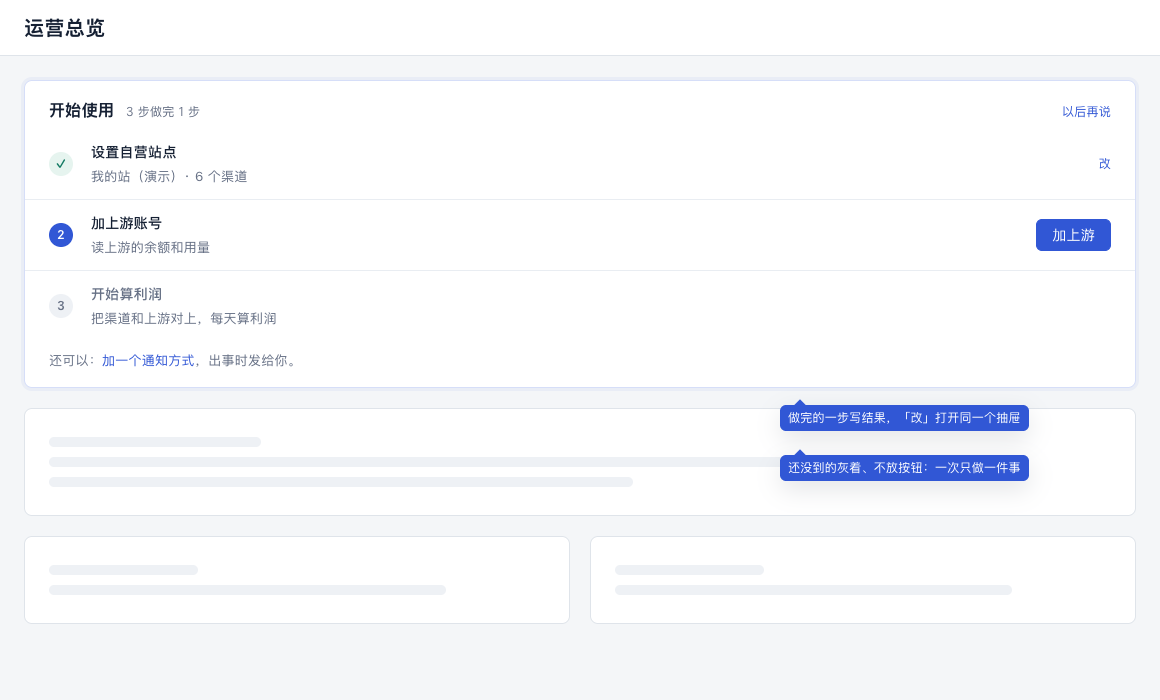
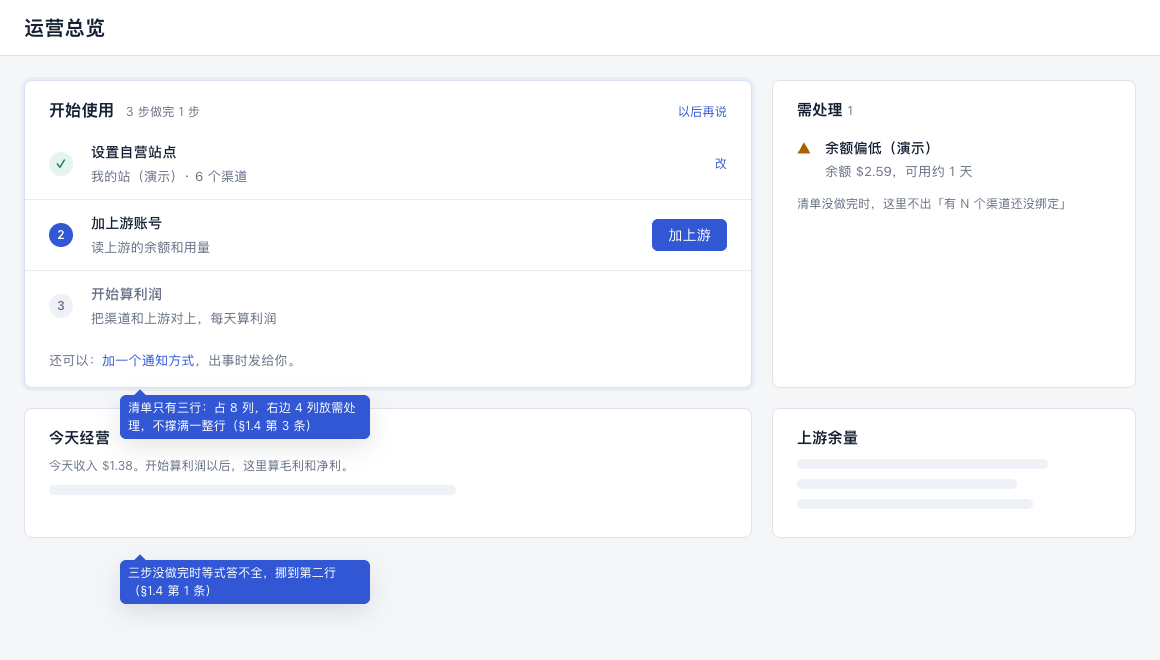
docs(ux): 第一次使用按 §1.4 重过——清单 8 列 + 需处理 4 列、没做完时等式挪到第二行、「更多设置」只写四个字；去重写明在 E 的 attention() 里做；五项加「版式」

diff --git a/design/ux/first-run.html b/design/ux/first-run.html
@@ -228,10 +228,10 @@ a { color: var(--cobalt); text-decoration: none; }
   </div>
   <div class="scrim"></div>
 </template>
-<p class="frame-label" style="width:1160px">F-A · 运营总览：没做完时顶上是「开始使用」，三步按顺序；现在这一步只有一个主按钮</p>
-<section class="frame" id="first-overview" style="width:1160px;height:700px">
+<p class="frame-label" style="width:1160px">F-A · 运营总览：没做完时第一行是清单 8 列 + 需处理 4 列；等式挪到第二行；现在这一步只有一个主按钮</p>
+<section class="frame" id="first-overview" style="width:1160px;height:660px">
   <div class="topbar"><h1>运营总览</h1><span class="spacer"></span></div>
-  <div class="ov">
+  <div class="ov" style="display:grid;grid-template-columns:2fr 1fr;gap:20px">
     <div class="start">
       <div class="start-head"><h2>开始使用</h2><span class="caption">3 步做完 1 步</span><span class="spacer"></span><a class="caption" style="color:var(--cobalt)">以后再说</a></div>
       <ol class="steps">
@@ -241,11 +241,14 @@ a { color: var(--cobalt); text-decoration: none; }
       </ol>
       <div class="start-foot">还可以：<a>加一个通知方式</a>，出事时发给你。</div>
     </div>
-    <div class="ghostpanel"><i style="width:20%"></i><i style="width:70%"></i><i style="width:55%"></i></div>
-    <div style="display:grid;grid-template-columns:1fr 1fr;gap:20px"><div class="ghostpanel"><i style="width:30%"></i><i style="width:80%"></i></div><div class="ghostpanel"><i style="width:30%"></i><i style="width:80%"></i></div></div>
+    <div class="ghostpanel"><b style="font-size:15px">需处理</b> <span class="caption">1</span>
+      <ul class="attention" style="margin-top:10px"><li style="background:none;border:0;padding:6px 0;grid-template-columns:16px 1fr"><svg class="sym"><use href="#warn"/></svg><div><strong>余额偏低（演示）</strong><p>余额 $2.59，可用约 1 天</p></div></li></ul>
+      <p class="caption" style="margin-top:8px">清单没做完时，这里不出「有 N 个渠道还没绑定」</p></div>
+    <div class="ghostpanel"><b style="font-size:15px">今天经营</b><p class="caption" style="margin:8px 0 0">今天收入 $1.38。开始算利润以后，这里算毛利和净利。</p><i style="width:60%"></i></div>
+    <div class="ghostpanel"><b style="font-size:15px">上游余量</b><i style="width:80%"></i><i style="width:70%"></i><i style="width:75%"></i></div>
   </div>
-  <div class="ann t" style="left:780px;top:405px">做完的一步写结果，「改」打开同一个抽屉</div>
-  <div class="ann t" style="left:780px;top:455px">还没到的灰着、不放按钮：一次只做一件事</div>
+  <div class="ann t" style="left:120px;top:395px">清单只有三行：占 8 列，右边 4 列放需处理，不撑满一整行（§1.4 第 3 条）</div>
+  <div class="ann t" style="left:120px;top:560px">三步没做完时等式答不全，挪到第二行（§1.4 第 1 条）</div>
 </section>
 <p class="frame-label" style="width:1160px">F-B · 设置自营站点：一个抽屉四处用；只填地址和令牌，离开输入框就自动读</p>
 <section class="frame" id="first-own" style="width:1160px;height:760px">
@@ -257,7 +260,7 @@ a { color: var(--cobalt); text-decoration: none; }
       <div class="field"><label>站点地址</label><div class="input filled">https://my-site.example.com</div></div>
       <div class="field"><label>超级管理员的访问令牌</label><div class="input filled">••••••••••••••••</div>
         <div class="kv-ok"><svg class="sym"><use href="#good"/></svg>能读到：站点「我的站」，120 个用户，6 个渠道</div></div>
-      <div class="more"><svg class="icon"><use href="#i-chev"/></svg>更多设置（名字、售价）</div>
+      <div class="more"><svg class="icon"><use href="#i-chev"/></svg>更多设置</div>
     </div>
     <div class="d-foot"><span class="sub"></span><span class="btn">关闭</span><span class="btn primary">保存</span></div>
   </aside>
@@ -275,7 +278,7 @@ a { color: var(--cobalt); text-decoration: none; }
       <div class="field"><label>站点地址</label><div class="input filled">https://api.example.com</div><div class="kv-info">是 New API 站点</div></div>
       <div class="field"><label>访问令牌</label><div class="input filled">••••••••••••••••</div>
         <div class="kv-ok"><svg class="sym"><use href="#good"/></svg>能读到：账号 演示·主力账号，余额 $158.78</div></div>
-      <div class="more"><svg class="icon"><use href="#i-chev"/></svg>更多设置（名字、汇率、余额提醒线、不再续费、算不算进利润、渠道里用的其他地址）</div>
+      <div class="more"><svg class="icon"><use href="#i-chev"/></svg>更多设置</div>
     </div>
     <div class="d-foot"><span class="sub"></span><span class="btn">关闭</span><span class="btn primary">加上游</span></div>
   </aside>

diff --git a/design/ux/first-run.md b/design/ux/first-run.md
@@ -19,7 +19,8 @@
 | 流程 | 现在：设自营站点 12 步换 3 次页，加上游 11 步换 2 次页，开始算利润约 11 步换 2 次页，中间没有一句话告诉下一步（ui-audit §8.2）。改成：改完密码落到运营总览的「开始使用」，三步按顺序就地做：设置自营站点 3 步 → 加上游 3 步 → 开始算利润 2 步，做完落到每日利润。不换页 |
 | 省掉了什么 | 自己想到「自营站点要当成上游来加」；选类型、填名字、选用途；看一长串用不到的可选项；每一步做完自己找下一步；「去设置」把人扔到上游列表 |
 | 还要用户做的 | 填两样只有用户有的东西：站点地址、令牌（自营站点一次、每个上游一次）；回答一次账号的问题（K）；确认一次「开始算利润」 |
-| 对照原则 | §1.2 第 1 条（类型、名字、用户 ID、渠道都自己认）、第 4 条（一条路从头走到尾，每步告诉下一步）、第 5 条（可选项收起）、第 3 条（演示上游归不归档只问一次、不预先选） |
+| 对照原则 | §1.2 第 1 条（类型、名字、用户 ID、渠道都自己认）、第 4 条（一条路从头走到尾，每步告诉下一步）、第 3 条（演示上游归不归档只问一次、不预先选）；§1.4 第 1 条（首屏只放清单这一件事和需处理）、第 3 条（清单 8 列 + 需处理 4 列，不撑满一整行）、第 4 条（「更多设置」收起，说明一行）、第 9 条（多字段的事用抽屉，提交吸底） |
+| 版式 | 运营总览首屏：清单 8 列 + 需处理 4 列；清单没做完时，等式挪到第二行。两个抽屉 560 宽，只露地址、令牌两栏，其余收进「更多设置」。手机：清单在最顶上，一步一行，按钮在步骤名下面 |
 
 ## 1. 整条路（样稿 F-A 到 F-D）
 
@@ -41,7 +42,10 @@
 
 ![](./screens/first-overview.png)
 
-**放在哪**：运营总览最顶上，利润等式上面。三步没做完时才有。
+**放在哪**：运营总览第一行的 8 列，右边 4 列是需处理（和逐页版式里运营总览的 8 + 4 同一个格子，样稿 F-A）。三步没做完时才有；没做完时利润等式挪到第二行。
+
+- 为什么不撑满一整行：清单只有三行，撑满 1160 宽，右边一大片空（§1.4 第 3 条）。
+- 为什么等式往下挪：三步没做完时，等式里毛利、净利算不出来（没设置自营站点时收入也没有），首屏给它也回答不了问题；这时只写一行已有的数和「开始算利润以后，这里算毛利和净利」（§1.4 第 1 条）。
 
 **长什么样**（用现有的 `panel`，不另起组件）：
 - 标题「开始使用」，旁边「3 步做完 1 步」。
@@ -66,7 +70,7 @@
 
 **为什么第 3 步是「开始算利润」，不是「加通知方式」**：ui-audit §8.1 写的是「设好自营站点 → 加上游账号 → 加通知方式」。总指挥排的时候把「开始算利润」接成第 3 步：用户要的是利润，加完上游就该接着算；通知方式不影响数，放成「还可以」那一行（第 10 节第 1 条）。
 
-**和需处理的关系**：清单没做完时，需处理里不出「有 N 个渠道还没绑定」这一条，清单第 3 步说的就是它，不重复（§1.2 第 5、6 条）。
+**和需处理的关系**：清单没做完时，需处理里不出「有 N 个渠道还没绑定」这一条，清单第 3 步说的就是它，不重复（§1.4 第 2 条、§1.2 第 6 条）。这个去重在 E 的需处理清单里做（第 11 节），不在页面上过滤。
 
 ## 3. 设置自营站点：一个组件四处用（样稿 F-B）
 
@@ -216,6 +220,7 @@
 
 ## 11. 给开发的几点（只说页面要什么，不定怎么做）
 
+- **需处理去重**：清单没做完时，「有 N 个渠道还没绑定」不进需处理。这一条在 E 的 `attention()` 里做，判断「清单做完没有」和清单进度用同一个来源。这样运营总览、侧栏、上游账单、日报四处一样，页面上不各自过滤。
 - **清单进度**：一次读拿到四样，都按现在的数据判断，不记「走过没有」：
   - 有没有自营站点；
   - 有没有不是演示的上游；
